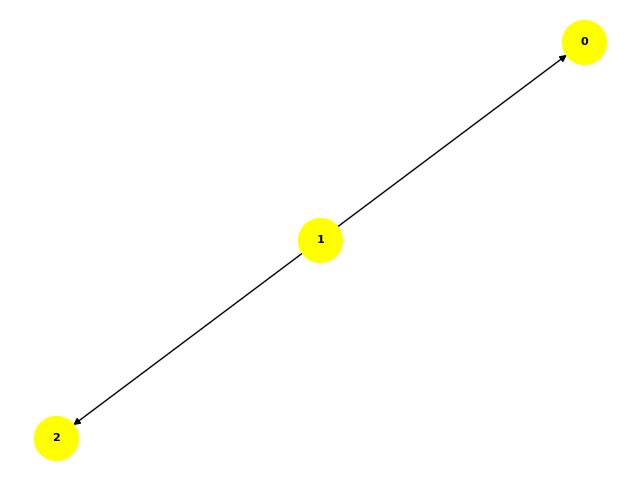
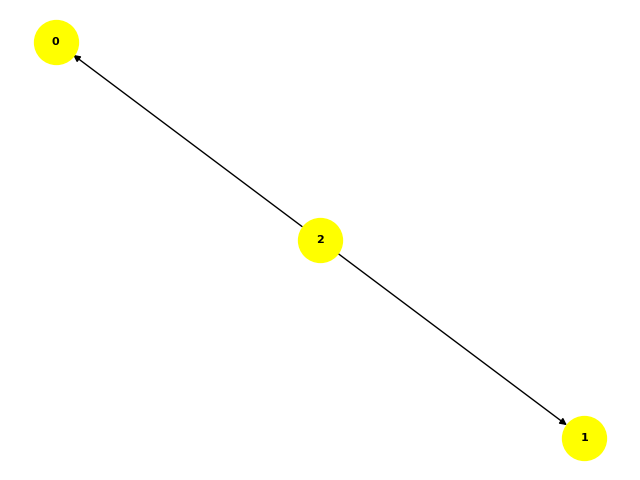
fixed global variables bug, need to add a stoping condition

diff --git a/main.py b/main.py
@@ -1,27 +1,9 @@
-from turtle import color
-from matplotlib.pyplot import flag
 from Allocation import *
 from Instance import *
 
 
-# the allocations graph is specific for 3 agents case
-allocations_graph = nx.Graph()
-colors_dict = {
-    '1>2>3' : 'red',
-    '1>3>2' : 'blue',
-    '2>1>3' : 'yellow',
-    '2>3>1' : 'black',
-    '3>1>2' : 'purple',
-    '3>2>1' : 'green'
-}
-global NODE_COUNT, PREV_NODE
-NODE_COUNT = 0
-allocations_dict = {} 
-PREV_NODE = None
-color_map = []
-
-
 def update_allocations_graph(key):
+    global NODE_COUNT
     if key not in allocations_dict:
         color_map.append('gray')
         allocations_dict[key] = NODE_COUNT  # the value is also unique
@@ -48,14 +30,17 @@ def algorithm1(I, stopOnEF1=True):
     w = tuple([1/n]*n)  # a tuple of initial agents' weights (all equal)
     A = W_maximal_allocation(I, w)  # (A1, A2, ..., An), ∀i, Ai is of type list
     print("A = ", A.A)
+    global PREV_NODE
+    if not stopOnEF1:  # debug mode
+        key = ' '.join(map(str, A.A))  # TODO: if items indices are different, this should be the same key!
+        value, flag = update_allocations_graph(key)  # flag must to be true in the first allocation
+        PREV_NODE = value
     if A.is_EF1():
         print(A.A, " is EF1!")
         if stopOnEF1:
             return A
-        else:  # debug mode
-            key = ' '.join(map(str, A.A))  # TODO: if items indices are different, this should be the same key!
-            value, flag = update_allocations_graph(key)  # flag must to be true in the first allocation
-            PREV_NODE = value
+        else:
+            color_map[-1] = 'pink'  # update the color of the node of the EF1 allocation to pink (instead of gray)
 
     # Step 2: Build a set of item-pairs whose replacement increases the envy-agents' utilities:
     A.update_exchangeable_items()
@@ -63,6 +48,7 @@ def algorithm1(I, stopOnEF1=True):
 
     # Step 3: Switch items in order until an EF1 allocation is found
     while True:
+        # print("NODE_COUNT: ", NODE_COUNT, "\nPREV_NODE: ", PREV_NODE)
         if not A.is_EF1():
             A.exchange_pair(i, j, exchangeable_pair)
             print("exchange ", exchangeable_pair, " between ", i, " and ", j)
@@ -82,9 +68,8 @@ def algorithm1(I, stopOnEF1=True):
             print(A.A, " is EF1!")
             if stopOnEF1:
                 return A
-            else:
-                if flag:
-                    color_map[-1] = 'pink'  # update the color of the node of the EF1 allocation to pink (instead of gray)
+            else:  # if flag ?
+                color_map[-1] = 'pink'  # update the color of the node of the EF1 allocation to pink (instead of gray)
                 
 
 # 2 agents
@@ -113,20 +98,20 @@ n = 3
 
 I = Instance(utilities, capacities, n)
 
-# # the allocations graph is specific for 3 agents case
-# allocations_graph = nx.Graph()
-# colors_dict = {
-#     '1>2>3' : 'red',
-#     '1>3>2' : 'blue',
-#     '2>1>3' : 'yellow',
-#     '2>3>1' : 'black',
-#     '3>1>2' : 'purple',
-#     '3>2>1' : 'green'
-# }
-# allocations_dict = {} 
-# NODE_COUNT = 0
-# PREV_NODE = None
-# color_map = []
+# the allocations graph is specific for 3 agents case
+allocations_graph = nx.Graph()
+colors_dict = {
+    '1>2>3' : 'red',
+    '1>3>2' : 'blue',
+    '2>1>3' : 'yellow',
+    '2>3>1' : 'black',
+    '3>1>2' : 'purple',
+    '3>2>1' : 'green'
+}
+allocations_dict = {} 
+NODE_COUNT = 0
+PREV_NODE = None
+color_map = []
 
 algorithm1(I, stopOnEF1=False)
 
